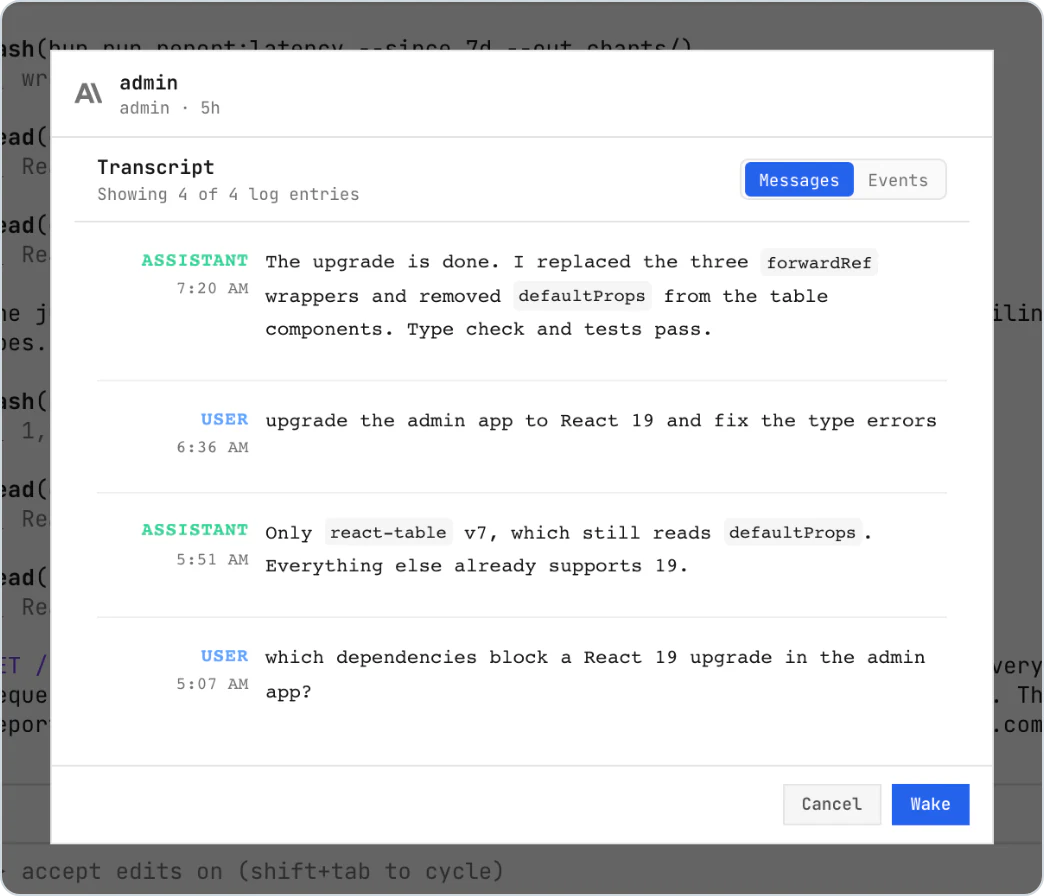
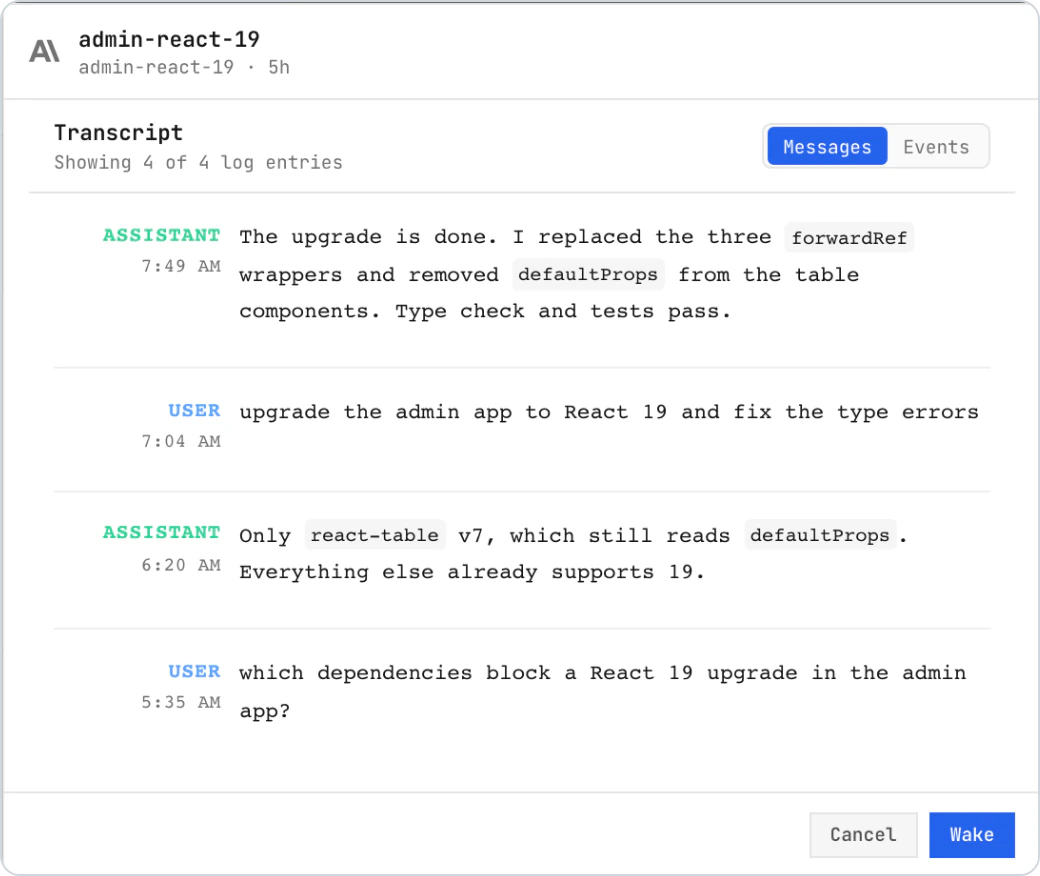
docs: regenerate README visuals at readable sizes
Larger hero window and phone, feature shots cropped to their subject,
the media row shows the rail with thumbnails over its transcript, and
alt text describes the new images.

Claude-Session: https://claude.ai/code/session_01Fpx9CQ3zzuK47bpSuKBUsT

Changed region(s): [[0.0, 0.0, 1.0, 1.0], [0.0923, 0.5856, 0.8615, 0.6781], [0.1538, 0.7089, 0.5231, 0.8322]]

diff --git a/README.md b/README.md
@@ -11,7 +11,7 @@ Agentboard is a web UI for `tmux`, built for running coding agents such as Claud
 Every session lives in tmux, so your agents keep running when you close the tab, and the same sessions are available from every device.
 
 <p align="center">
-  <img src="assets/readme/hero.webp" width="880" alt="Agentboard in a desktop browser window, with a phone in front of it. The desktop sidebar lists seven agent sessions with their status, last prompt and pull request chips; one session waits for permission. The terminal on the right shows a Claude Code session refactoring a router. The phone shows the same session's terminal with a quick-keys toolbar.">
+  <img src="assets/readme/hero.webp" width="880" alt="Agentboard in a desktop browser window, with a phone in front of it. The desktop sidebar lists agent sessions with their status, age, last prompt and pull request chips; one session waits for permission. The terminal shows a Claude Code session refactoring a router, with a Media 2 pill in its corner. The phone shows the same session's terminal with a quick-keys toolbar.">
 </p>
 <p align="center"><sub>The same tmux sessions on a laptop and a phone. Screenshots are generated with <code>bun run readme:shots</code> from invented sessions.</sub></p>
 
@@ -27,7 +27,7 @@ Each session shows whether its agent is *working*, *waiting for input*, or *need
 
 </td>
 <td width="60%">
-<img src="assets/readme/status-loop.gif" width="520" alt="Animation: a Claude Code session named orders-migration asks for permission to run a database migration. Its sidebar entry and status bar change to Needs Input while the permission prompt is open, then return to Working after it is approved.">
+<img src="assets/readme/status-loop.gif" width="520" alt="Animation: the sidebar lists sessions with their last prompts and ages. The selected session, orders-migration, shows a permission prompt to run a database migration; its status badge changes to a raised hand while the prompt is open, then back to now when the prompt is answered.">
 </td>
 </tr>
 <tr>
@@ -39,7 +39,7 @@ Pull requests that a session opened or pushed to appear as chips on the session,
 
 </td>
 <td width="60%">
-<img src="assets/readme/pull-requests.webp" width="520" alt="The sidebar with pull request chips under three sessions. A hover card for pull request 1193 shows its title and four CI checks, one of them failing.">
+<img src="assets/readme/pull-requests.webp" width="520" alt="Four sidebar sessions with pull request chips: a draft (489), two open (482 and 1193) and a merged one (1187). A hover card for pull request 1193 shows its title and four CI checks, one of them failing.">
 </td>
 </tr>
 <tr>
@@ -51,7 +51,7 @@ A media rail collects the images, documents and links from a session's transcrip
 
 </td>
 <td width="60%">
-<img src="assets/readme/media-rail.webp" width="520" alt="The media viewer showing a bar chart of p95 latency by endpoint that an agent read during the session, with Previous and Next buttons.">
+<img src="assets/readme/media-rail.webp" width="520" alt="The media rail open over a session's terminal: tabs for Media 5 and Links 1, then thumbnails for a PDF report, a search results screenshot, a CPU flame graph and two latency charts. Below it, the transcript lines where the agent read those files.">
 </td>
 </tr>
 <tr>
@@ -63,7 +63,7 @@ A media rail collects the images, documents and links from a session's transcrip
 
 </td>
 <td width="60%">
-<img src="assets/readme/history.webp" width="520" alt="A transcript preview of a past Claude Code conversation about upgrading an app to React 19, with Cancel and Wake buttons.">
+<img src="assets/readme/history.webp" width="520" alt="The transcript preview of a past Claude Code conversation, admin-react-19, about upgrading an app to React 19, with Cancel and Wake buttons.">
 </td>
 </tr>
 <tr>
@@ -86,7 +86,7 @@ Sessions from other machines appear on the same board over SSH, with a host badg
 
 </td>
 <td width="60%">
-<img src="assets/readme/hosts.webp" width="520" alt="The sidebar mixing sessions from the local host, studio, and a remote host, build-box. A Codex session running on build-box is selected and its terminal is shown on the right.">
+<img src="assets/readme/hosts.webp" width="520" alt="Five sidebar sessions from two machines: rows badged STUDIO run locally, rows badged BUILD-BOX run on a remote host. The remote Codex session nightly-e2e is selected.">
 </td>
 </tr>
 </table>
